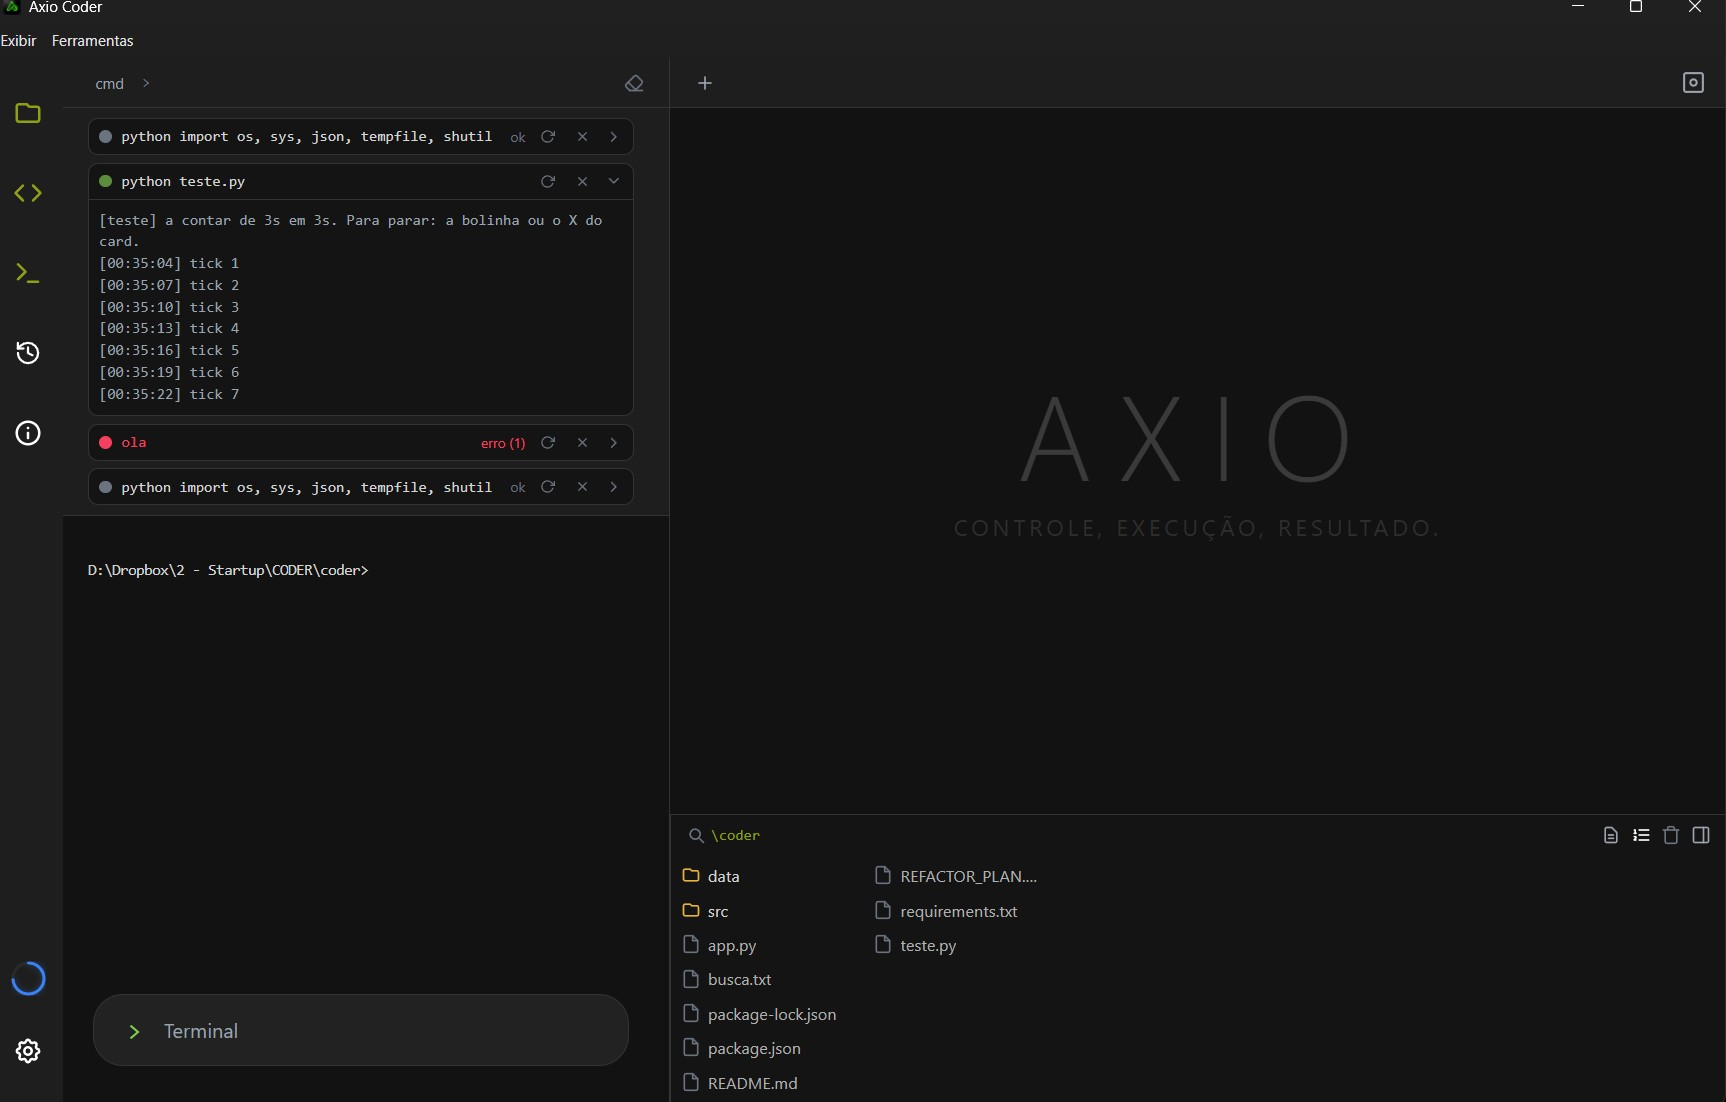
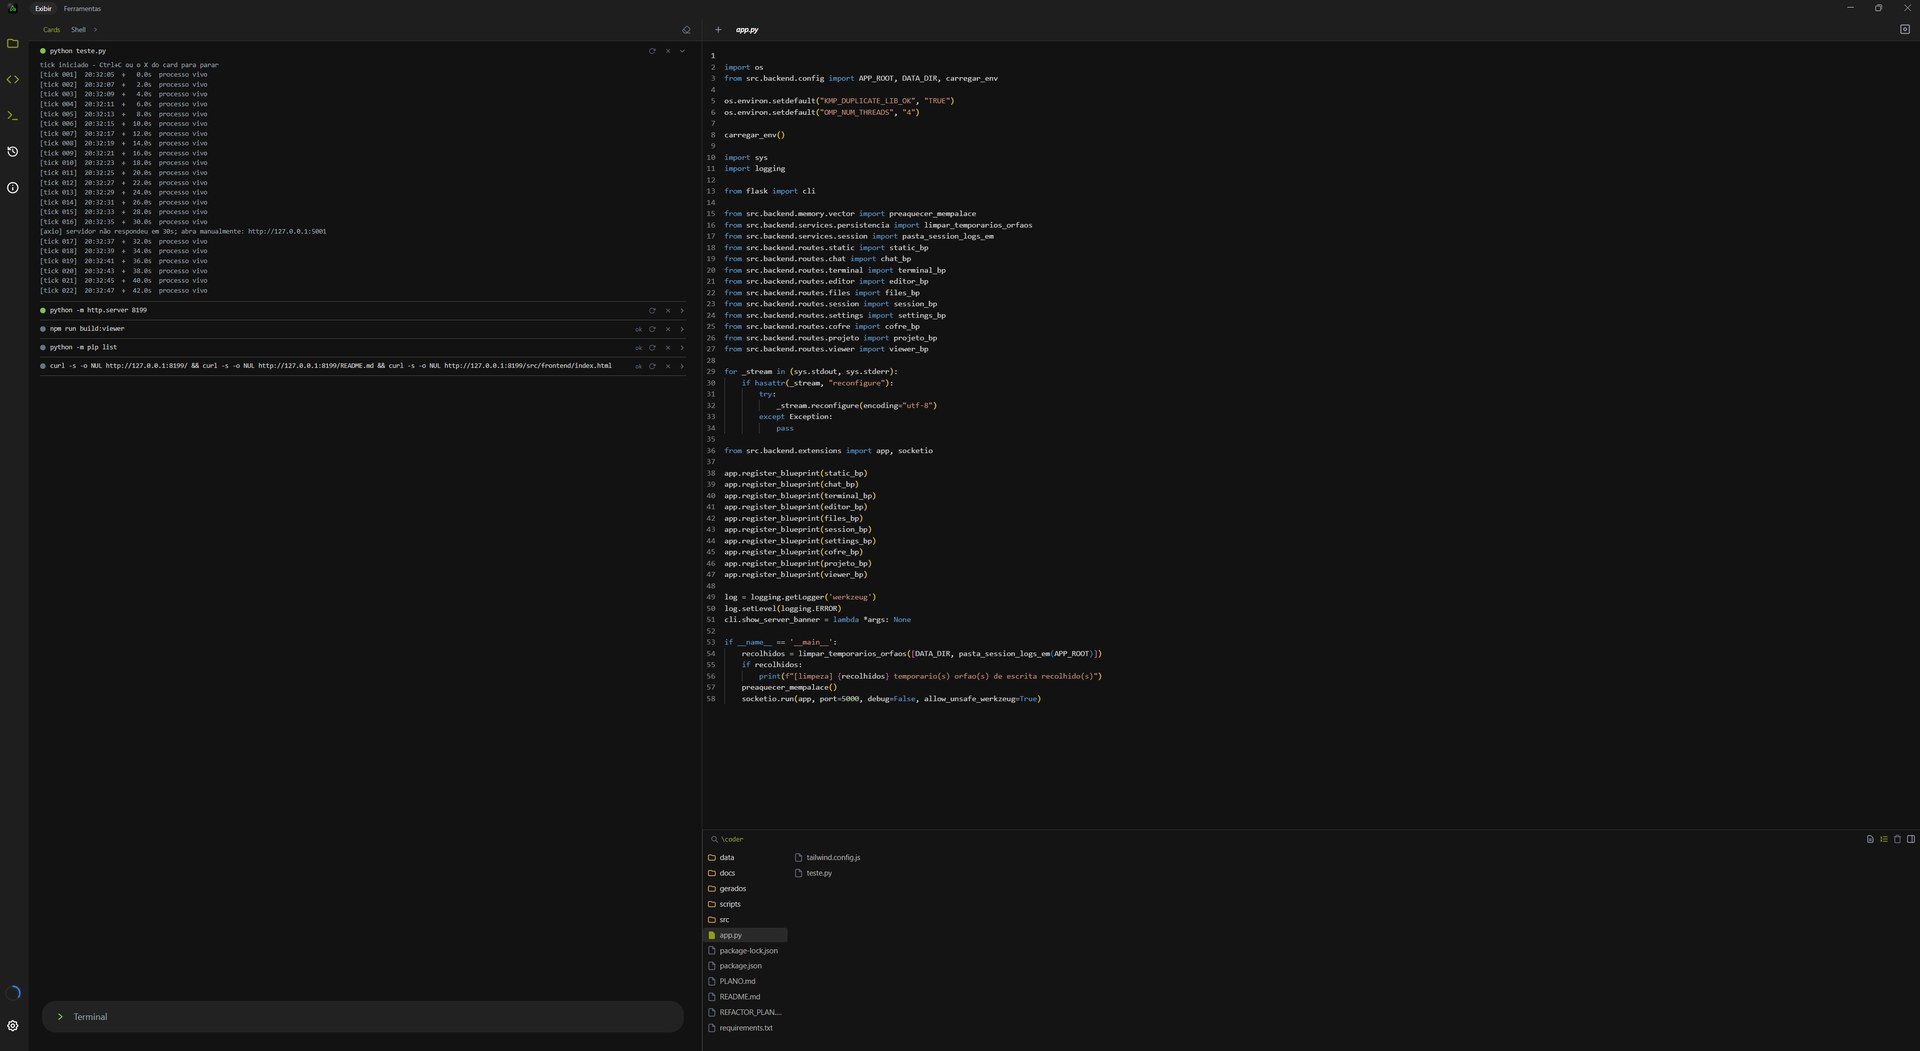
Ajusta o README às capturas novas da interface
Seis capturas do conjunto de setembro substituem as que mostravam a interface
antiga: histórico, cards, raciocínio, vista IFC, informações do projeto e
navegador no preview. O README ganha a chamada de abertura e o painel do
projeto, e perde as secções "O que fica fora do repositório" e "Demonstração".

diff --git a/README.md b/README.md
@@ -4,7 +4,9 @@ Agente de programação que vive dentro do próprio IDE: lê e edita código, co
 
 Não é um chat com uma caixa de texto ao lado do código. É uma janela de trabalho onde o agente e o utilizador mexem no mesmo projeto, com as ações dele à vista — o ficheiro que abre, o comando que corre, a página que inspeciona, o raciocínio que faz.
 
-![Árvore de ficheiros, histórico de sessões e editor](docs/interface/interface-historico.jpg)
+**A atualização que o VS Code nunca teve.** Imagine criar software completo com um único comando — o Axio Coder foi construído por um arquiteto exatamente para isso, e pensado também para quem nunca escreveu um `hello world`. Descreva o que quer, sem escrever código. **Imagine. E o Axio executa.**
+
+![Árvore de ficheiros, histórico de sessões com o diff e o editor](docs/interface/historico.jpg)
 
 ## O que ele faz
 
@@ -12,13 +14,13 @@ Não é um chat com uma caixa de texto ao lado do código. É uma janela de trab
 
 ![Plano da tarefa em curso](docs/interface/plano-visual.jpg)
 
-**Vê o que constrói.** O preview é um Chromium embutido que o agente opera de verdade: carrega a página, clica, escreve nos campos, lê a consola e os pedidos falhados, extrai o desenho (medidas, cores, fontes) e devolve o mapa de tudo o que lá está. Se algo não responde, ele vê o erro em vez de adivinhar.
+**Vê o que constrói.** O preview é um Chromium embutido que o agente opera de verdade: carrega a página, clica, escreve nos campos, lê a consola e os pedidos falhados, extrai o desenho (medidas, cores, fontes) e devolve o mapa de tudo o que lá está. Serve os ficheiros do projeto e a internet, com abas e barra de endereço — e se algo não responde, ele vê o erro em vez de adivinhar.
 
-![Página a correr no preview, com o editor ao lado](docs/interface/preview.jpg)
+![O preview a navegar na web, num navegador a sério dentro da janela](docs/interface/preview-navegador.jpg)
 
-**Lê formatos de engenharia.** IFC, DXF, PDF, STEP, malhas 3D, DOCX, XLSX, PPTX e imagens, cada um aberto no seu leitor, com abas e ferramentas próprias. E gera: modelos paramétricos para IFC/STEP/STL, desenhos em DXF, documentos e planilhas.
+**Lê formatos de engenharia.** IFC, DXF, PDF, STEP, malhas 3D, DOCX, XLSX, PPTX e imagens, cada um aberto no seu leitor, com abas e ferramentas próprias. E gera: modelos paramétricos para IFC/STEP/STL, desenhos em DXF, documentos e planilhas. O modelo abaixo foi gerado pelo próprio agente e voltou aberto no leitor dele.
 
-![Visualizador de IFC, DXF, planilha, documento e apresentação](docs/interface/visualizador.jpg)
+![Modelo IFC gerado pelo agente, aberto no visualizador](docs/interface/visualizador-ifc.jpg)
 
 **Corre processos e terminais.** Servidores, instalações e comandos longos correm em segundo plano, cada um no seu cartão, com a saída acompanhada em tempo real — e um terminal PTY interativo com suporte a ConPTY.
 
@@ -31,6 +33,10 @@ Não é um chat com uma caixa de texto ao lado do código. É uma janela de trab
 Num programa de desenho complexo, o mesmo mecanismo trabalha pelo lado certo — a cena abaixo foi montada no GIMP por script, com o agente a ler a imagem de volta para conferir o resultado:
 
 ![Agente a compor no GIMP](docs/interface/gimp.jpg)
+
+**Conhece o que está instalado.** Um painel lê o projeto por dentro: as linguagens, as dependências com a versão que está no disco, quantas linhas tem cada pasta e a árvore inteira. Cada pacote é comparado com o registo oficial e ganha um sinal quando está atrás do último publicado — ou quando outro pacote o prende.
+
+![Informações do projeto: stack, dependências e a árvore com os totais](docs/interface/informacoes-do-projeto.jpg)
 
 **Guarda memória do projeto.** Notas, glossário de termos do utilizador e transcrições de sessões ficam num banco vetorial e são recuperadas por similaridade a cada rodada, com a idade e a origem de cada memória à vista. O glossário é remedido contra o código: aponta para o sítio errado, ele avisa.
 
@@ -109,15 +115,3 @@ coder/
 └── gerados/                  o que o agente produz, em pastas por assunto
 ```
 
-## O que fica fora do repositório
-
-O código está todo aqui. O que **não** entra é o que se reproduz ou é teu:
-
-- `.env`, `data/settings.json`, `data/cofre.json`, `data/vertex_credentials.json` — segredos.
-- `.axio/` — logs e transcrições das sessões.
-- `data/cache_modelos/` e `src/frontend/vendor/viewer/dist/` — caches e builds, regeneráveis.
-- `gerados/` — os modelos e documentos que o agente produz; vivem no disco, em pastas por assunto.
-
-## Demonstração
-
-Os vídeos de demonstração (refatoração de um módulo de 5 mil linhas, desenho no Paint e no GIMP, interação com o preview, visualização de IFC) são ficheiros grandes e vivem fora do repositório, na pasta institucional do projeto.

diff --git a/docs/material-institucional.md b/docs/material-institucional.md
@@ -20,14 +20,21 @@ Total: cerca de 598 MB.
 
 ## Capturas
 
+O conjunto de setembro/2026 substituiu as capturas antigas: as que mostravam a interface anterior saíram do repositório.
+
 | Ficheiro | O que mostra | Usada no README do projeto como |
 |---|---|---|
-| `Captura de tela 2026-09-01 024505.jpg` | Árvore de ficheiros, histórico de sessões e editor | `interface-historico.jpg` (capa) |
+| `historico.jpg` | O histórico das sessões com o diff lado a lado e o log em baixo | `historico.jpg` (capa) |
 | `plano.jpg` | O plano da tarefa em curso, com as etapas a serem riscadas | `plano-visual.jpg` |
-| `terminal dinamico.jpg` | O terminal em modo cards, cada comando no seu cartão | `terminal-cards.jpg` |
+| `navegador no preview.jpg` | O preview a navegar na web, com abas e barra de endereço | `preview-navegador.jpg` |
+| `vista ifc.jpg` | O modelo IFC da árvore, gerado pelo agente, aberto no visualizador | `visualizador-ifc.jpg` |
+| `cards.jpg` | O terminal em modo cards, cada comando no seu cartão | `terminal-cards.jpg` |
 | `paint foguete.jpg` | O Paint com o foguete desenhado e o raciocínio ao lado | `janela-paint.jpg` |
 | `criando desenho paint.jpg` | O Paint com a casa desenhada e a explicação do que falhou antes de sair certo | — |
+| `informacoes do projeto.jpg` | As informações do projeto: stack, dependências e a árvore com os totais | `informacoes-do-projeto.jpg` |
 | `leitura ficheiros arvore.jpg` | A resposta a um memorial com imagens e tabelas | `leitura-de-documento.jpg` |
-| `eureca!.jpg` | O raciocínio do agente a chegar a uma conclusão | `raciocinio.jpg` |
+| `raciocinio.jpg` | O raciocínio do agente com o log da sessão ao lado | `raciocinio.jpg` |
+| `eureca!.jpg` | O raciocínio do agente a chegar a uma conclusão | — |
+| `Captura de tela 2026-09-01 024505.jpg`, `terminal dinamico.jpg` | Interface antiga, de setembro | substituídas pelas novas |
 
-As capturas usadas no README estão copiadas para `coder/docs/interface/` (nomes em minúsculas, sem acentos). Os originais ficam aqui, com os nomes de origem.
+As capturas usadas no README estão copiadas para `coder/docs/interface/`, reduzidas a 1920 px de largura (nomes em minúsculas, sem acentos). Os originais ficam aqui, com o nome de origem. O `gimp.jpg` do README não vem daqui: é um fotograma do vídeo `criando desenho gimp.mp4`, porque a cena montada por script só aparece em movimento.
